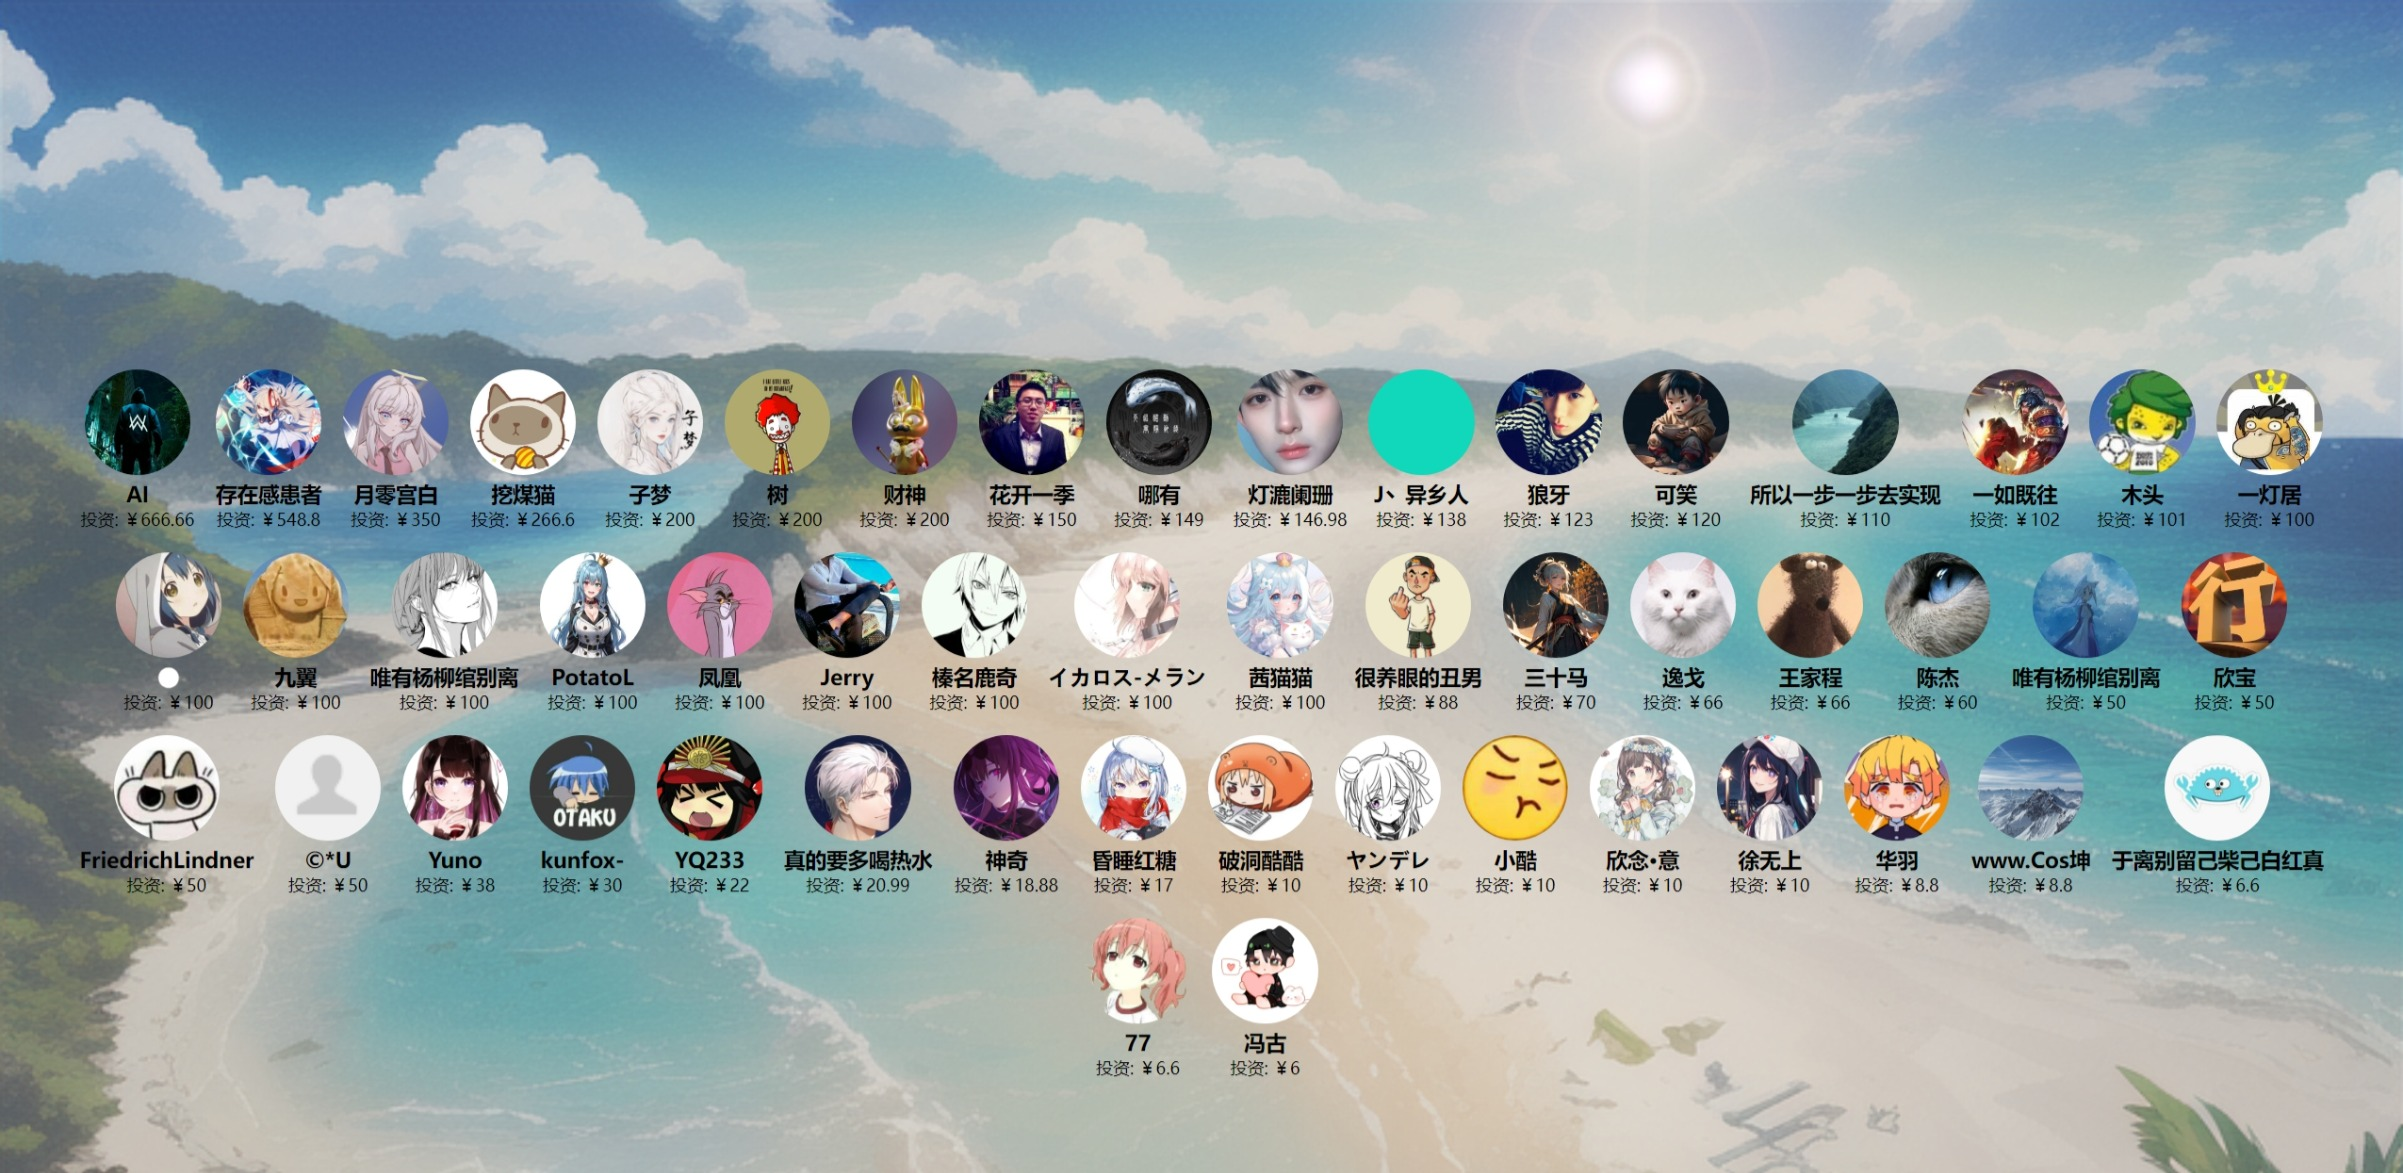
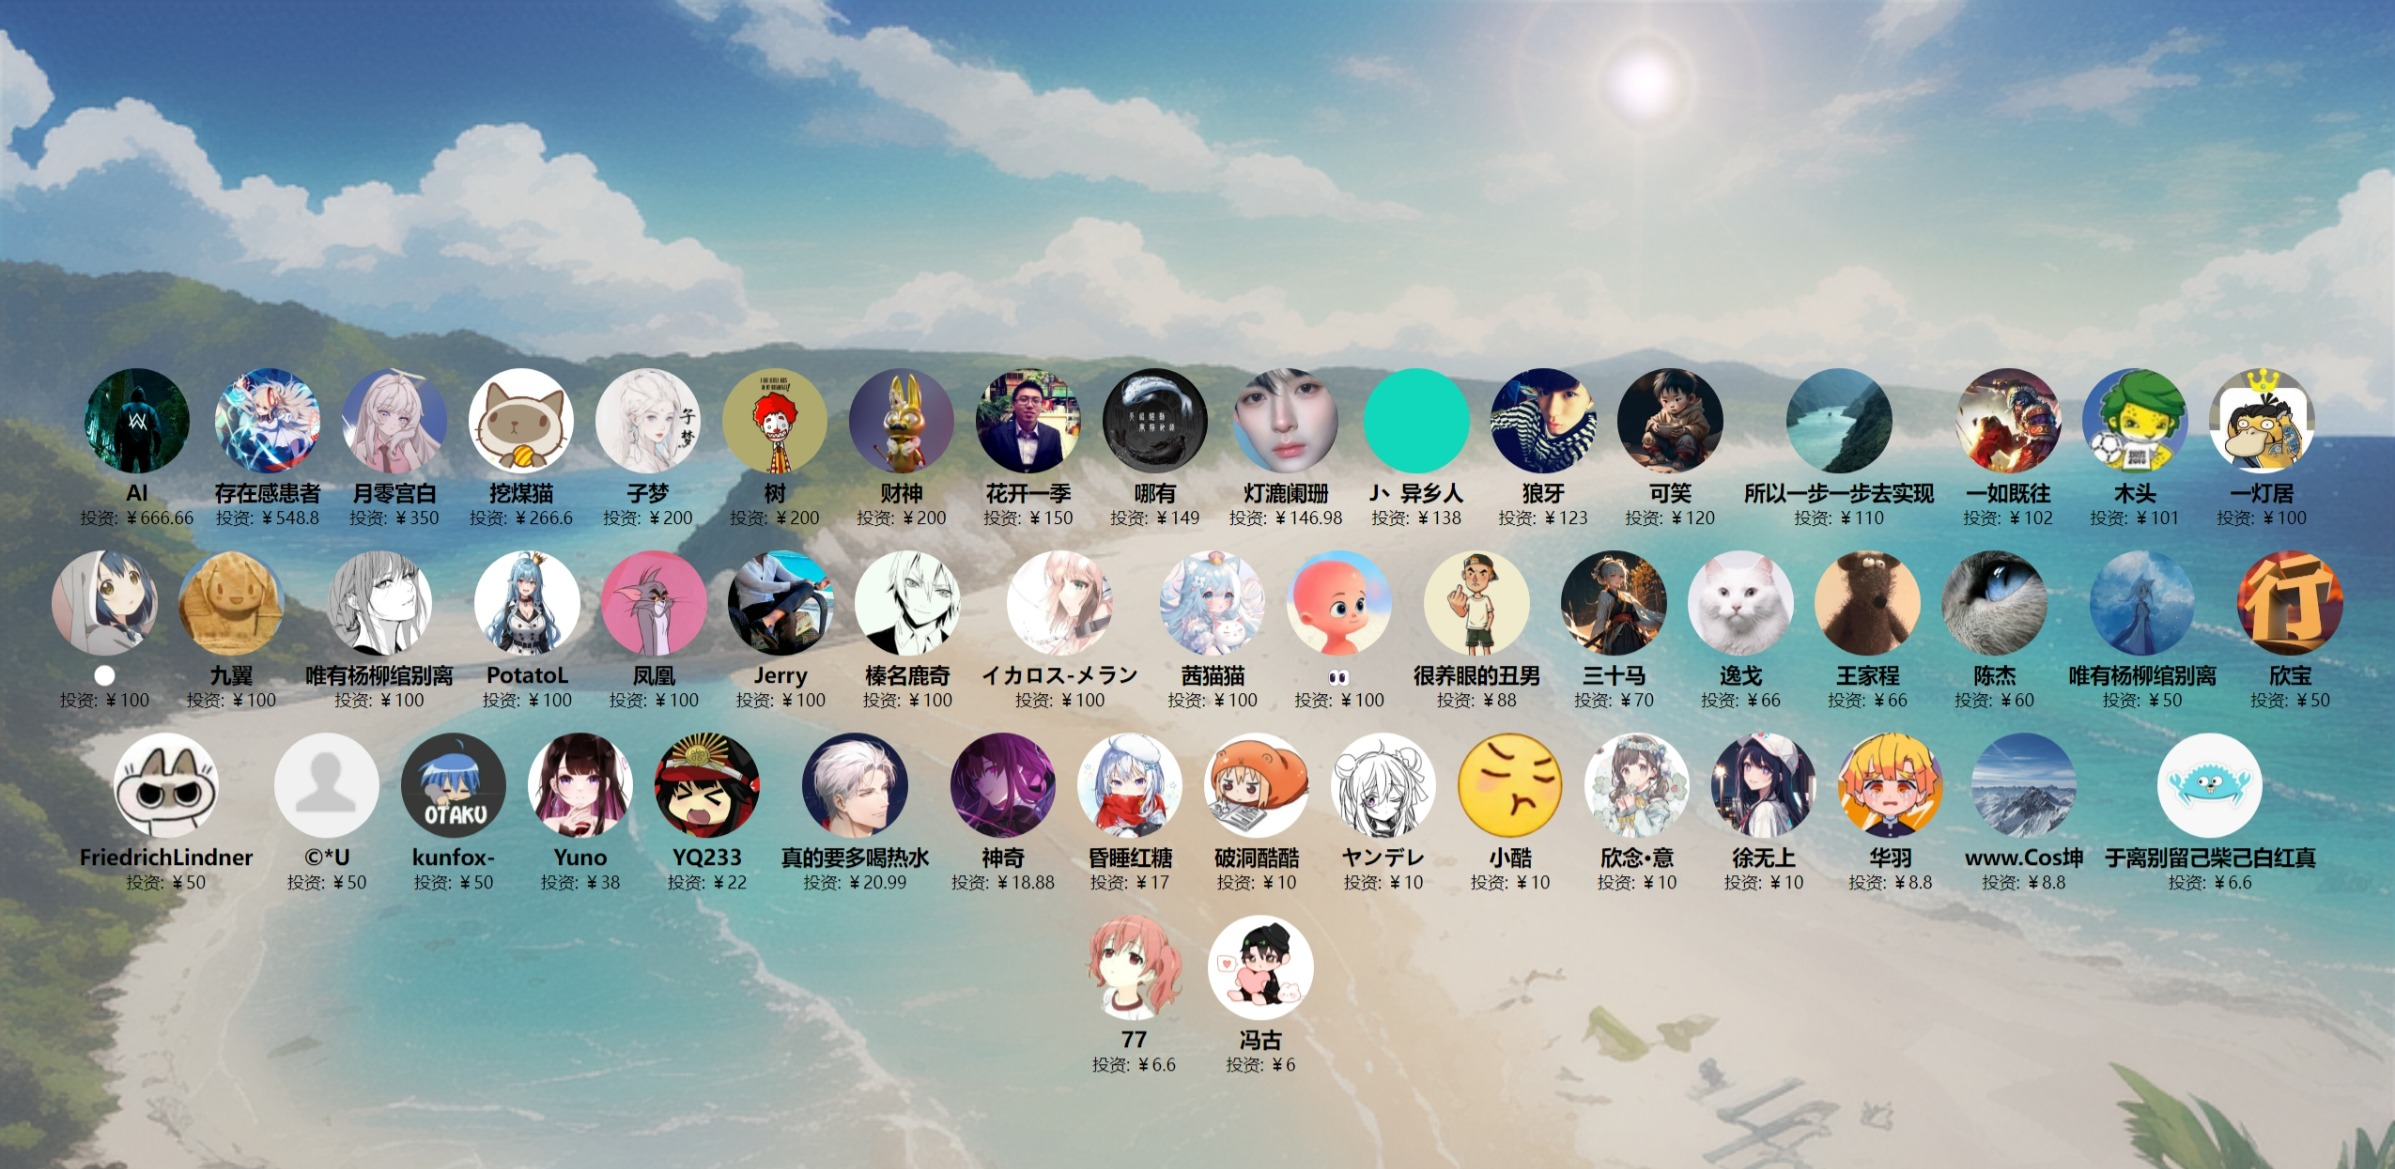
更新投资人

Changed region(s): [[0.0, 0.4619, 0.9887, 0.7391], [0.5253, 0.4003, 0.5562, 0.4311]]

diff --git a/docs/投资人/index.html b/docs/投资人/index.html
@@ -182,6 +182,11 @@
             amount: "￥100"
         },
         {
+            name: "👀",
+            avatar: "https://images.cnblogs.com/cnblogs_com/ikaros-521/2328032/o_231120130618_QQ%E5%9B%BE%E7%89%8720231120210431.jpg",
+            amount: "￥100"
+        },
+        {
             name: "很养眼的丑男",
             avatar: "https://images.cnblogs.com/cnblogs_com/ikaros-521/2328032/o_230722162732_QQ%E5%9B%BE%E7%89%8720230723000544.jpg",
             amount: "￥88"
@@ -227,14 +232,14 @@
             amount: "￥50"
         },
         {
+            name: "kunfox-",
+            avatar: "https://images.cnblogs.com/cnblogs_com/ikaros-521/2328032/o_230902161301_otaku.jpg",
+            amount: "￥50"
+        },
+        {
             name: "Yuno",
             avatar: "https://images.cnblogs.com/cnblogs_com/ikaros-521/2328032/o_230719132530_QQ%E5%9B%BE%E7%89%8720230719212024.jpg",
             amount: "￥38"
-        },
-        {
-            name: "kunfox-",
-            avatar: "https://images.cnblogs.com/cnblogs_com/ikaros-521/2328032/o_230902161301_otaku.jpg",
-            amount: "￥30"
         },
         {
             name: "YQ233",
